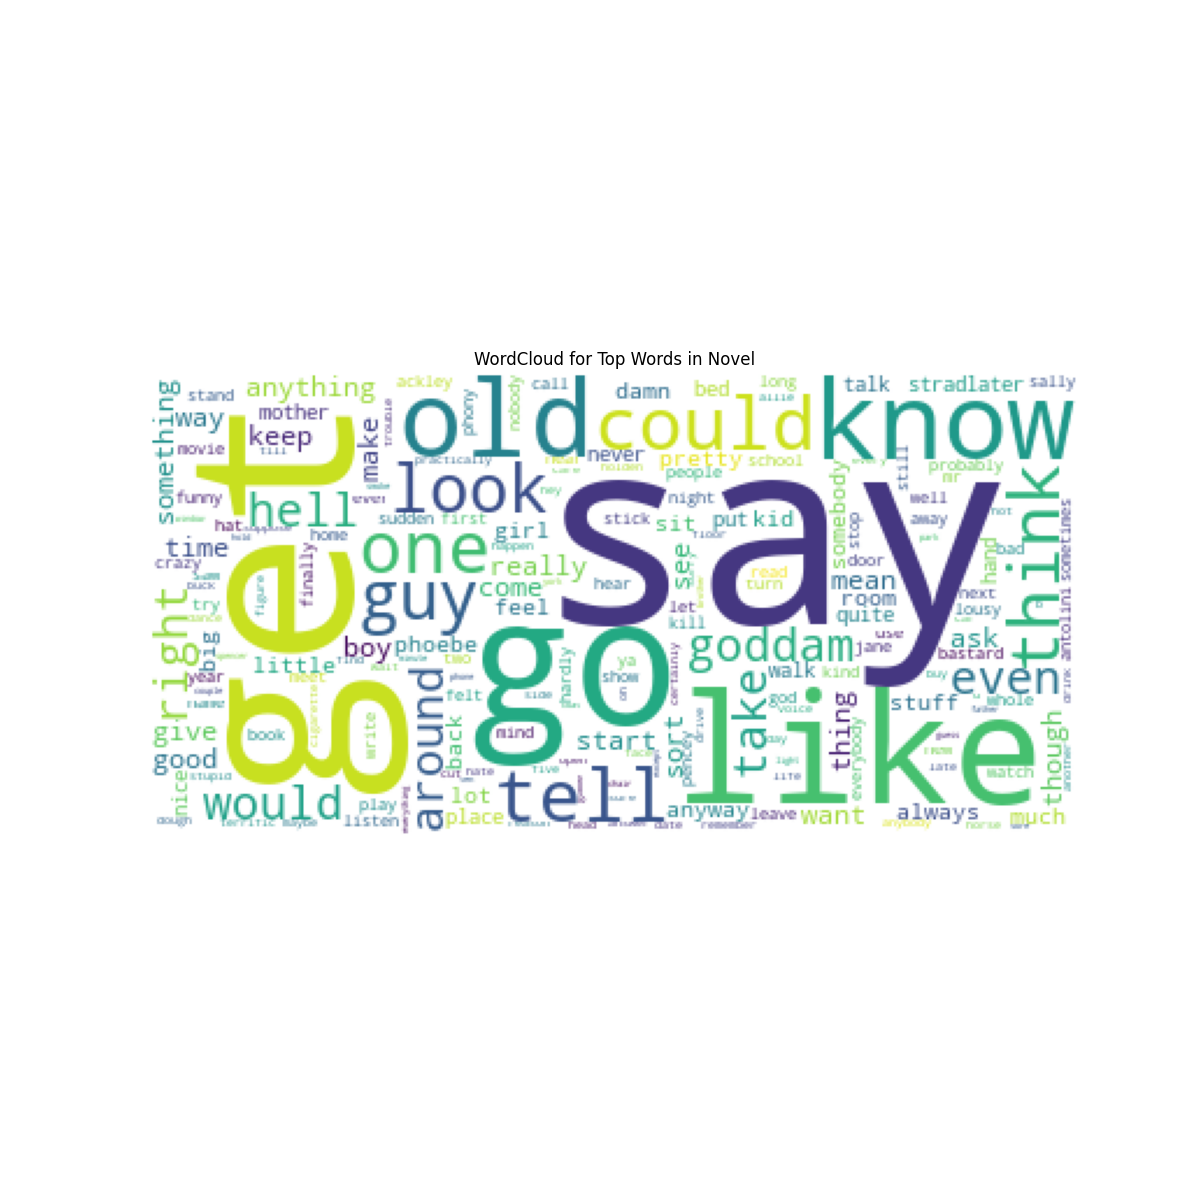
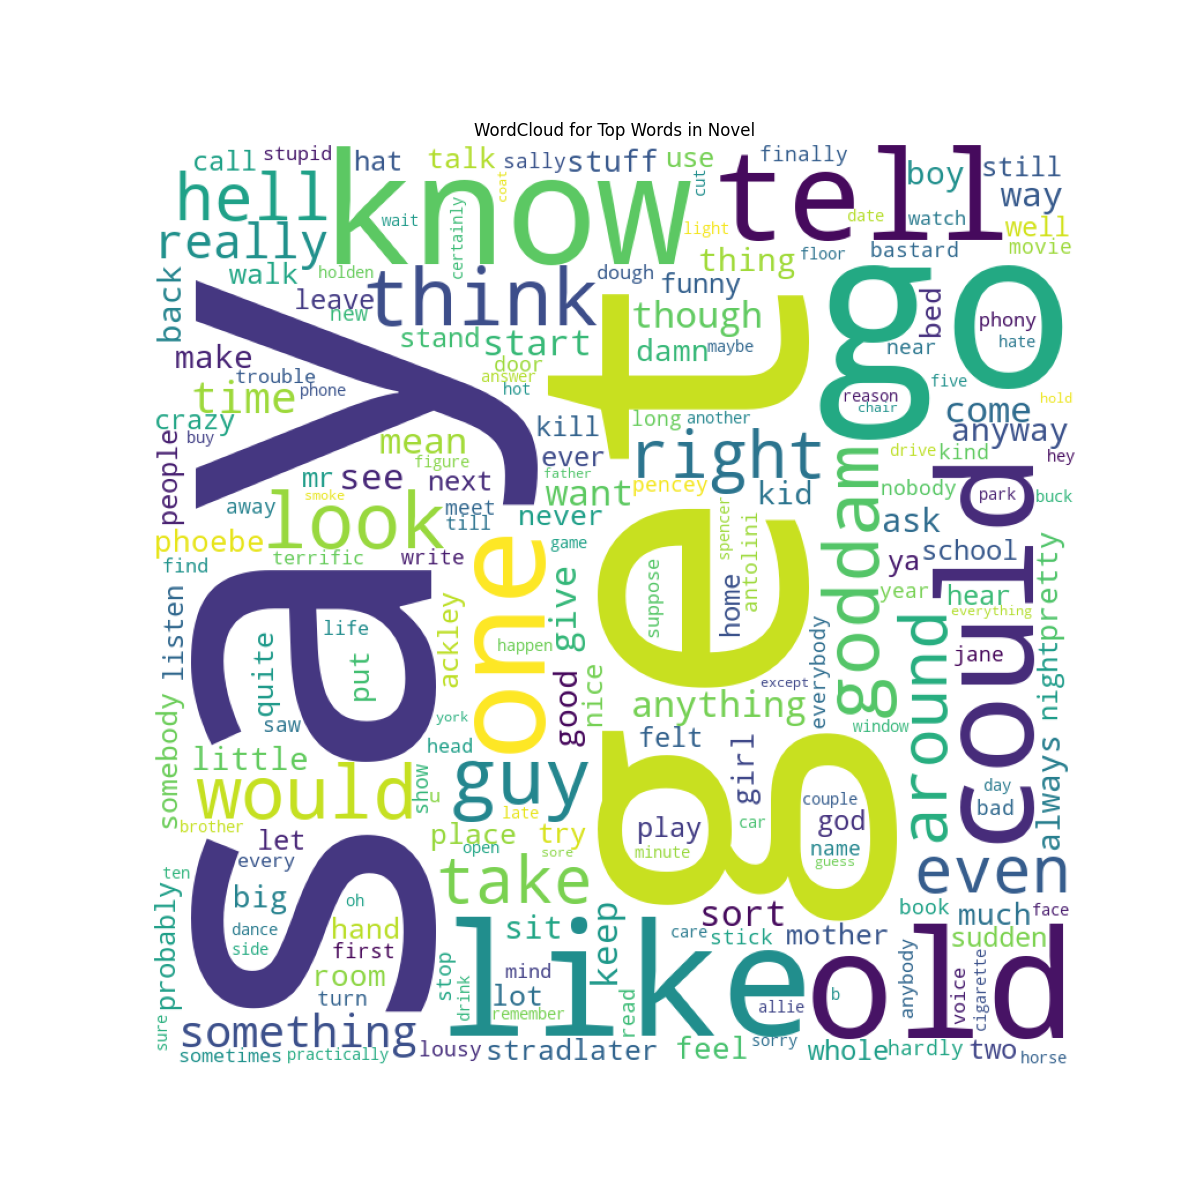
WordCloud resize

diff --git a/question2.py b/question2.py
@@ -105,6 +105,8 @@ def draw_wordcloud_top_word_frequency_information(top_word_freq_info):
         top_word_freq_info['word'], top_word_freq_info['frequency']
     )}
     wc = WordCloud(
+        width=800,
+        height=800,
         background_color='white',
         max_words=1000,
         contour_width=3,
